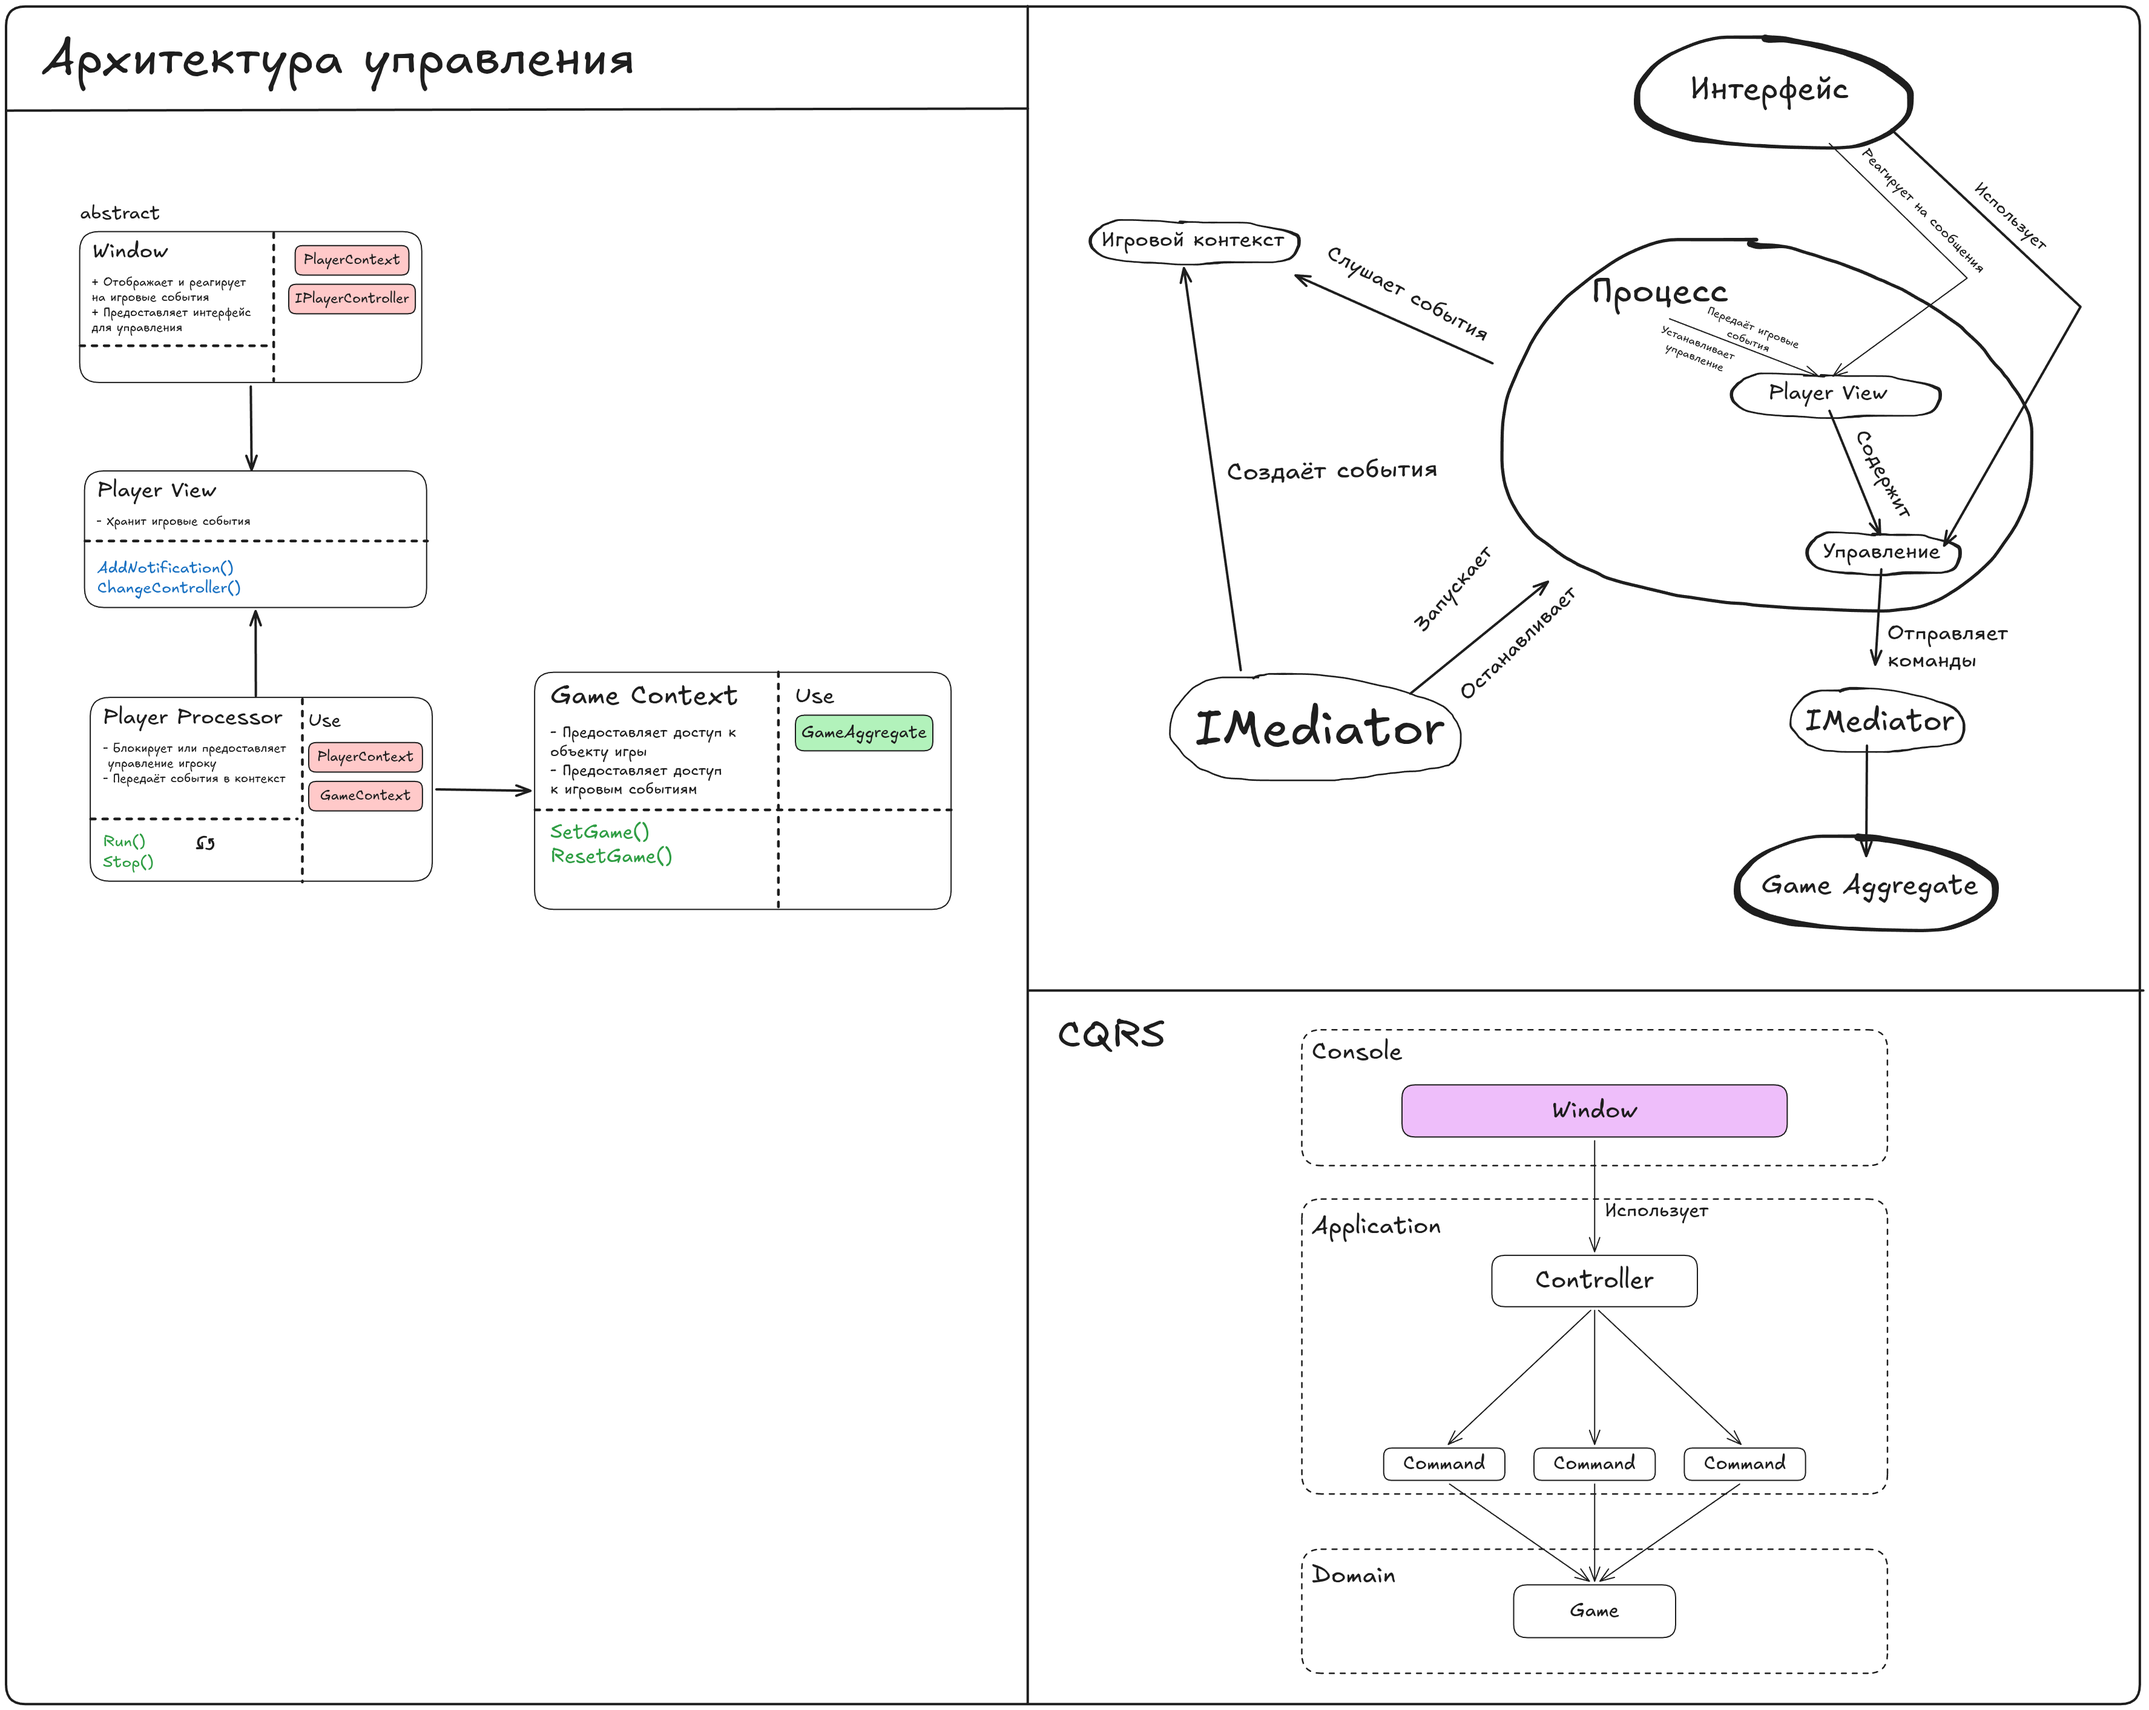
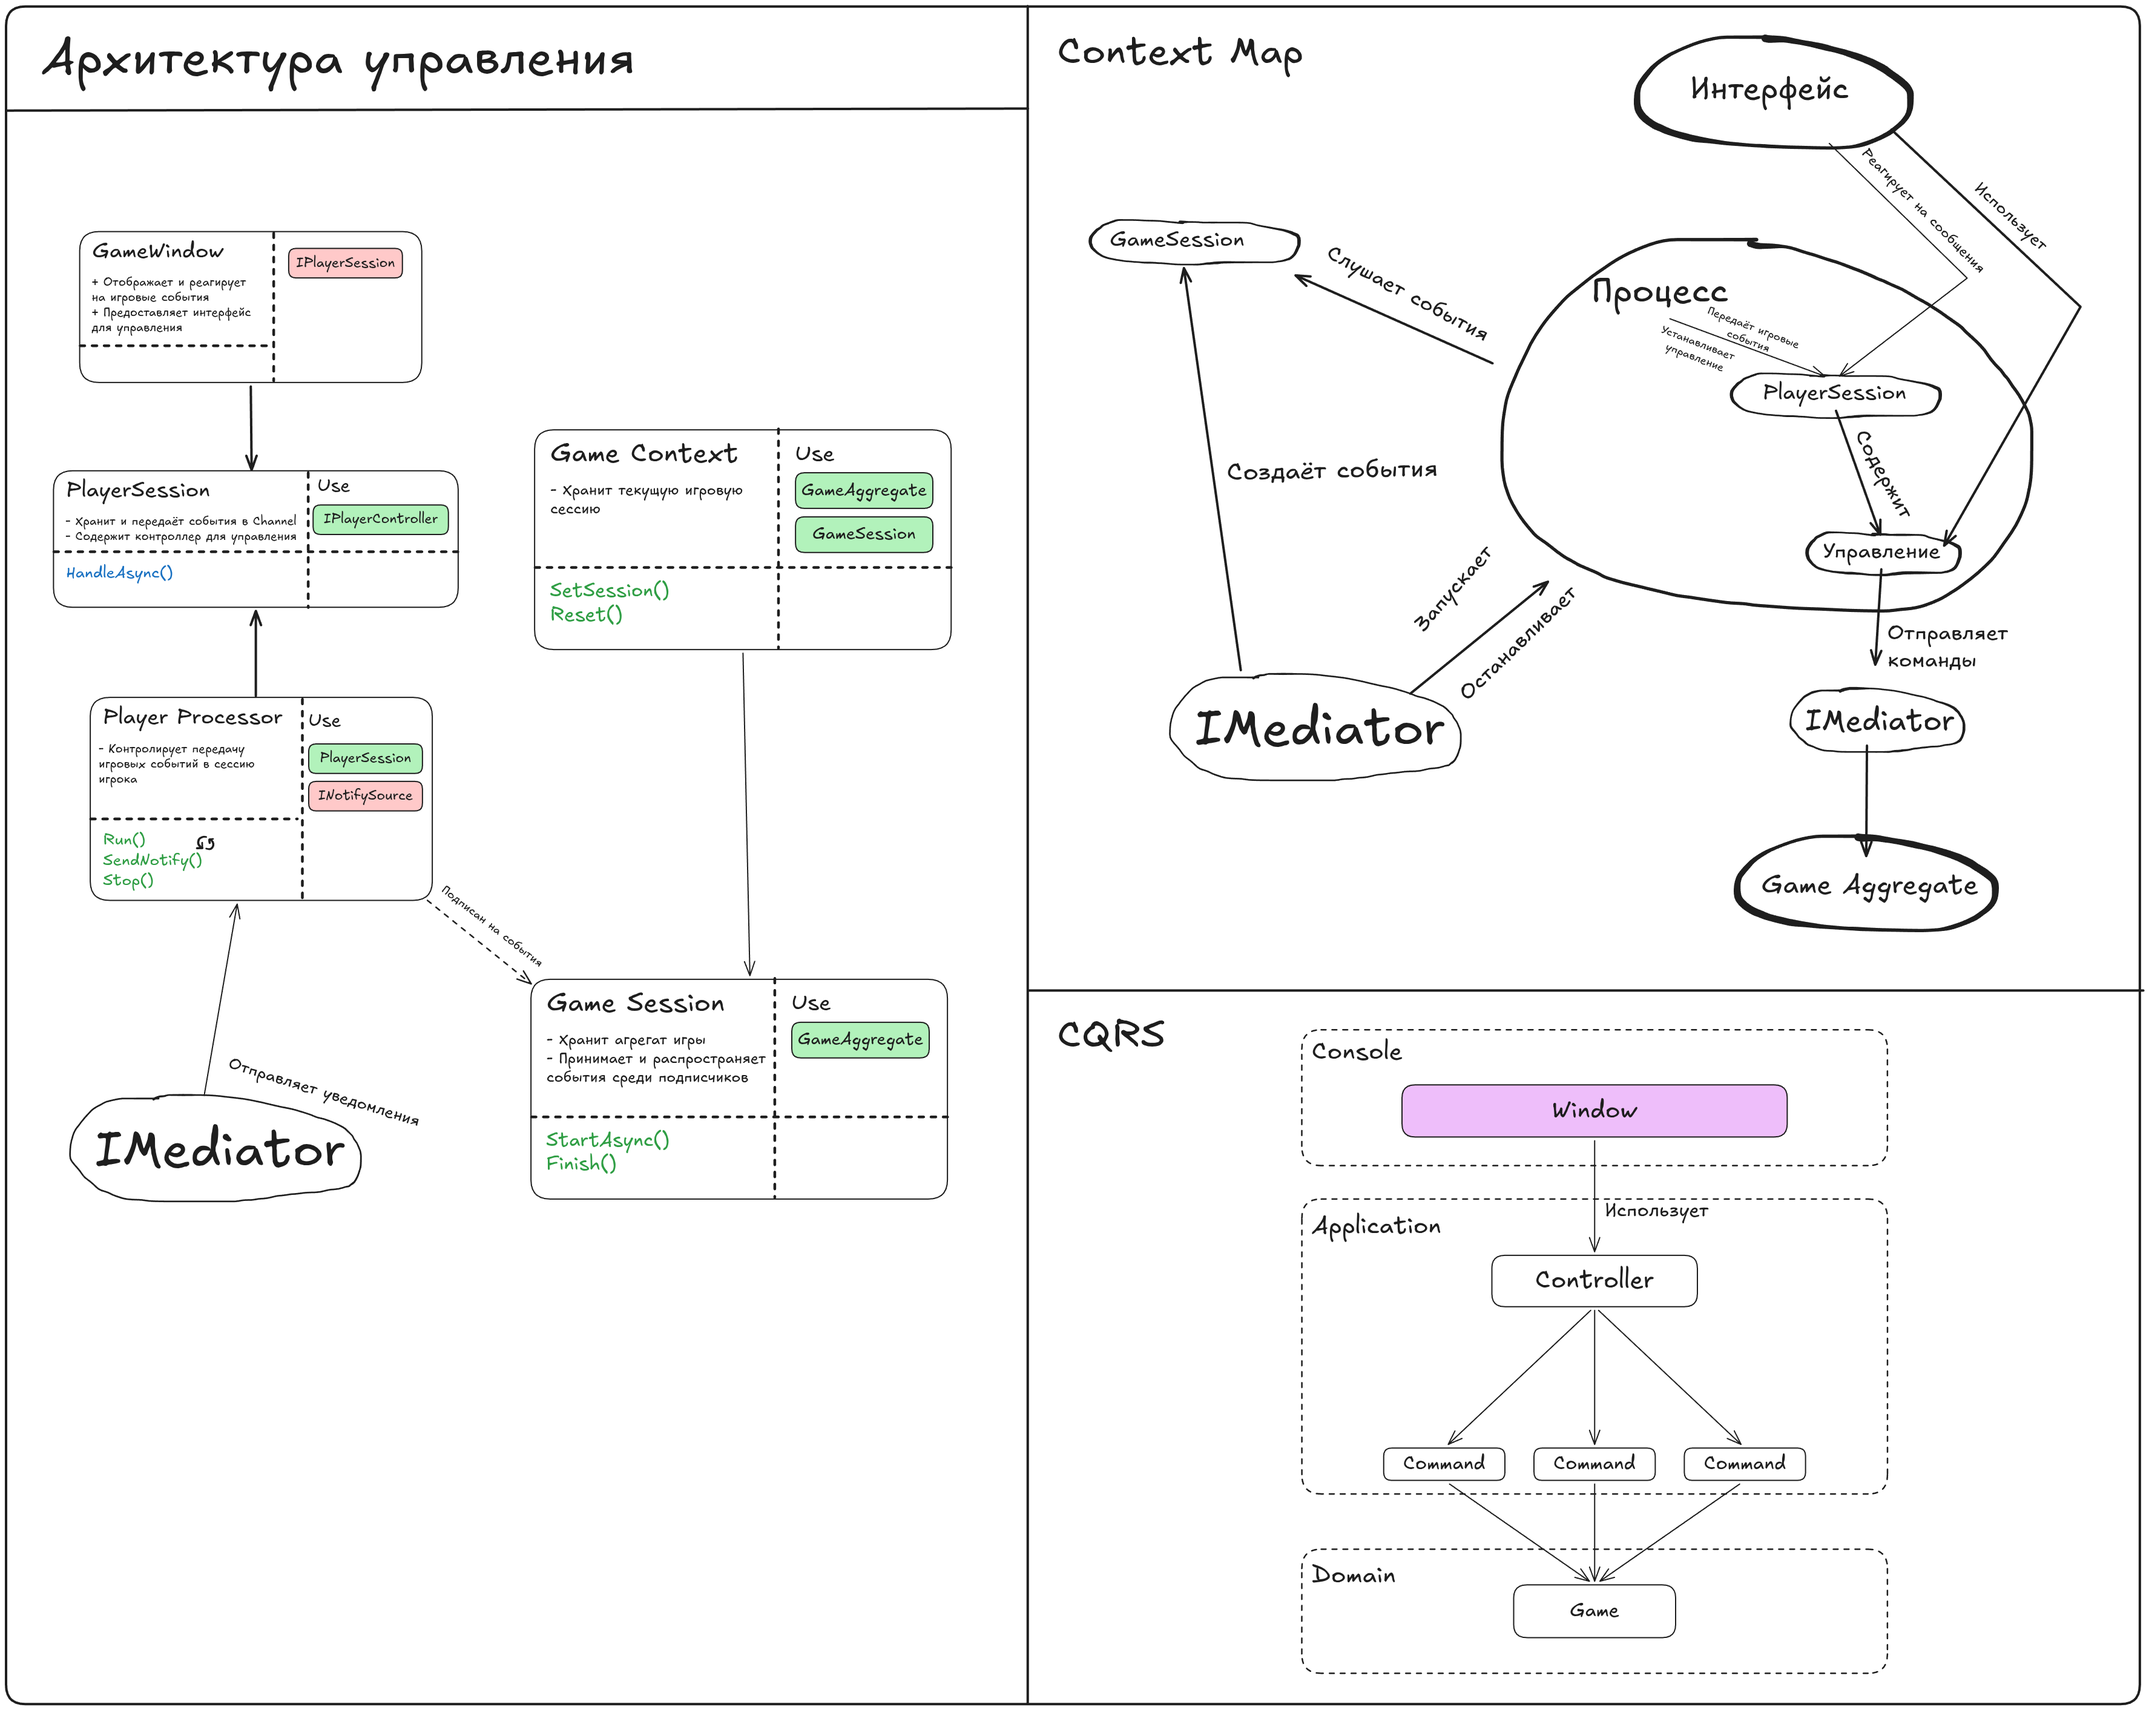
chore(docs): update diagram & object names

diff --git a/README.md b/README.md
@@ -35,7 +35,7 @@ MafiCo.Application/
 │   ├── Controllers/        #   Что игрок может делать сейчас: чат или голосование
 │   ├── Mediator/           #   Команды игрока и внутренние события/обработчики игры
 │   ├── Notifications/      #   Уведомления, которые видит игрок
-│   └── GameContext, GameWorker, PlayerProcessor, PlayerView
+│   └── GameContext, GameWorker, PlayerProcessor, PlayerSession
 └── Interfaces/             # Контракты, реализуемые во внешних слоях
 
 MafiCo.Infrastructure/
@@ -73,7 +73,7 @@ MafiCo.Console/
 #### Ход матча 
 `StartGameHandler` создаёт `Game`, для каждого игрока поднимает `PlayerProcessor` и запускает `GameWorker`. `GameWorker` раздаёт роли и переключает фазы. Всё, что должен увидеть игрок, превращается в уведомление `IGameNotification`. 
 
-Уведомления рассылаются через синглтон `GameContext`, попадают в персональный канал игрока (`PlayerView`) и отрисовываются экраном `GameSession`.
+Уведомления рассылаются через синглтон `GameContext`, попадают в персональный канал игрока (`PlayerSession`) и отрисовываются экраном `GameSession` (в проекте `MafiCo.Console`).
 
 ## Сборка и запуск
 
